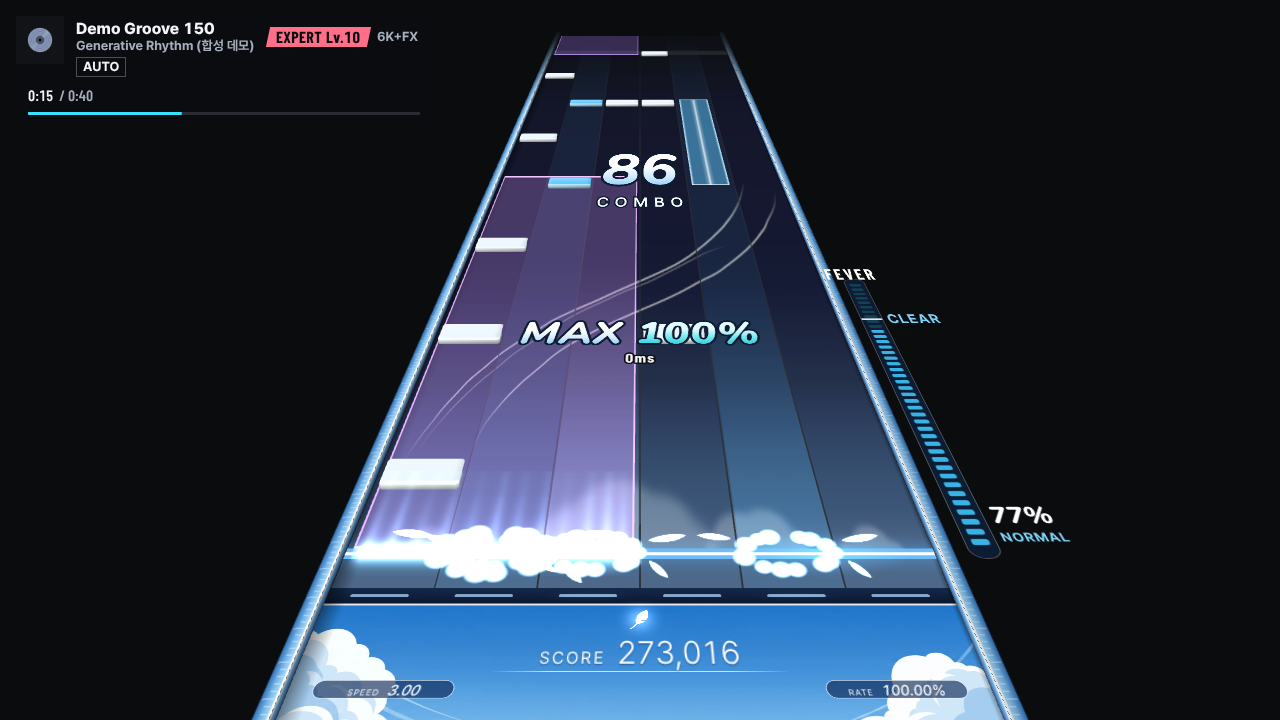
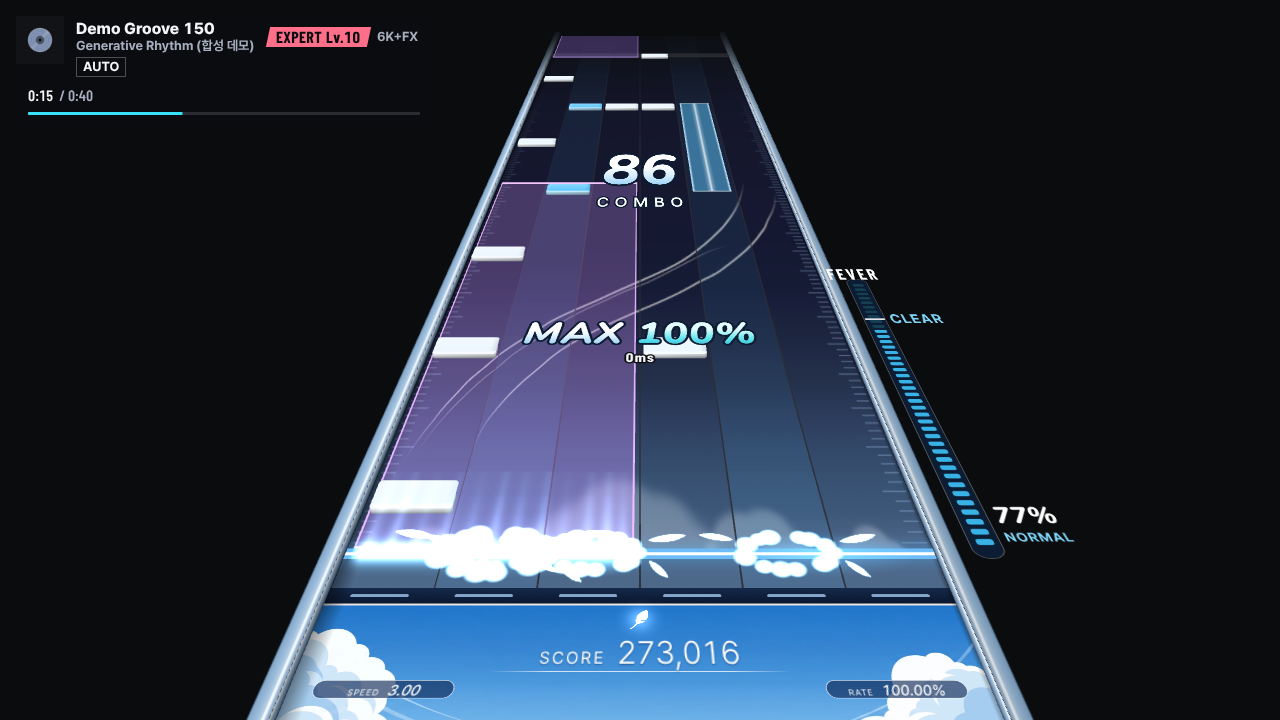
The sky skin's ticks on the lanes and its rails pale glass, as its concept has them
Set beside the concept, two things of the lanes' edges differed: the altimeter's ticks
were drawn on the rails, and the rails were a saturated blue. The concept has the ticks
on the lanes, along their two edges (one every 0.24 of a track unit, every fifth longer),
and the rails a band of pale glass with a white line: both are now as it has them. The
ticks are part of the lanes' picture, a hairline on the screen all the way and fainter
with the distance.

Claude-Session: https://claude.ai/code/session_01NJ81Brr5tCyummEicE23PB

diff --git a/client/src/render/deckArt.ts b/client/src/render/deckArt.ts
@@ -475,7 +475,9 @@ const GEM_WINDOW = 0.45;
 /**
  * The depths of SKY's deck: a thin strip of key dashes, the white line under it, the step with the
  * feather and the score written under it, the step with the speed's and the rate's pills (`pill`:
- * how far inside that step they lie).
+ * how far inside that step they lie). No deeper in all than STANDARD's: the default camera on a 16:9
+ * screen shows hardly more of the deck, and a deck that does not fit loses its readouts to the panel
+ * beside the gear (deckReadouts).
  */
 const SKY = { keys: 18, seam: 2, upper: 68, lower: 46, pad: 5, score: 36, pill: 8 } as const;
 
@@ -2443,6 +2445,8 @@ const SKY_TRACK = 40;
  * one hairline all the way).
  */
 const SKY_EYE = 14.9;
+/** The ticks along the lanes' edges: one every this many track units. */
+const SKY_TICK = 0.24;
 
 /** A smooth line through `points` (Catmull-Rom), `steps` points to each span. */
 function smoothed(points: readonly (readonly [number, number])[], steps: number): [number, number][] {
@@ -2497,8 +2501,9 @@ function strand(g: CanvasRenderingContext2D, w: number, h: number, st: number, s
  * SKY's lanes, as the skin's picture has them (r2-skin-sky-c3.jpg: the colours are read off its lanes
  * laid flat): a deep navy from the far end down to a quarter of the way from the judge line, easing
  * from there to a dim slate blue at the line (well under half the deck's brightness at its brightest),
- * a low bank of cloud at its palest standing on the line under the middle lanes, and the three wind
- * trails (SKY_STRANDS), still: nothing on it moves, and none of it is as bright as a note.
+ * a low bank of cloud at its palest standing on the line under the middle lanes, the three wind
+ * trails (SKY_STRANDS) and an altimeter's ticks along the two edges, still: nothing on it moves, and
+ * none of it is as bright as a note.
  */
 function skyFloor(g: CanvasRenderingContext2D, w: number, h: number, st: number): void {
   const sky = g.createLinearGradient(0, 0, 0, h);
@@ -2539,6 +2544,18 @@ function skyFloor(g: CanvasRenderingContext2D, w: number, h: number, st: number)
   }
   g.restore();
   for (const s of SKY_STRANDS) strand(g, w, h, st, s, Math.max(1.1, w / 440));
+  // an altimeter's ticks along the lanes' two edges, as the picture has them: one every SKY_TICK units
+  // up the track, every fifth longer; a hairline on the screen all the way (drawn deeper the further
+  // up the track, where the camera flattens it), fainter with the distance so they never close into a band
+  for (let i = 1; i * SKY_TICK < SKY_TRACK * 0.7; i++) {
+    const z = i * SKY_TICK;
+    const thick = Math.max(1, (h / SKY_TRACK) * 0.02 * (1 + z / SKY_EYE) ** 2);
+    const reach = w * (i % 5 === 1 ? 0.044 : 0.027);
+    const y = h * (1 - z / SKY_TRACK) - thick / 2;
+    g.fillStyle = `rgba(160,198,240,${(0.5 * (1 - z / (SKY_TRACK * 0.7))).toFixed(3)})`;
+    g.fillRect(w * 0.004, y, reach, thick);
+    g.fillRect(w * 0.996 - reach, y, reach, thick);
+  }
 }
 
 const GEAR_PLATES: Record<GearStyle, (g: CanvasRenderingContext2D, s: DeckSpec, art: GearArt) => void> = {
@@ -3130,21 +3147,21 @@ const GEAR_FRAMES: Record<GearStyle, (art: GearArt) => SideLook> = {
       g.fillRect(0, 0, 0.8 * k, h);
     },
   }),
-  // SKY: a slim strip of sky-tinted glass, a dark seam outside, a white hairline along the lanes, and
-  // fine tick marks along it as on an altimeter's scale, a longer one in each tile (in FEVER the glass
-  // brighter and the hairline cyan)
+  // SKY: a band of pale sky-tinted glass, a dark seam outside, a white line down it nearer the lanes
+  // and a cooler edge along them, plain all its length (the altimeter's ticks its picture has are on
+  // the lanes: skyFloor); in FEVER the glass brighter and the line cyan
   sky: () => ({
-    body: '#6fb3e6',
-    width: 14,
+    body: '#9dbddb',
+    width: 18,
     tile: 40,
     height: 14,
-    // the strip's side: the glass seen through its edge, white under its top, deep blue at its foot
+    // the band's side: the glass seen through its edge, white under its top, deep blue at its foot
     face: (g, w, h, k, lit) => {
       const side = g.createLinearGradient(0, 0, 0, h);
       side.addColorStop(0, '#ffffff');
-      side.addColorStop(0.2, lit ? '#b6e6ff' : '#93cdf4');
-      side.addColorStop(0.6, '#3d7cc0');
-      side.addColorStop(1, '#152c50');
+      side.addColorStop(0.22, lit ? '#c9ecff' : '#b4cfe6');
+      side.addColorStop(0.65, '#5f84ad');
+      side.addColorStop(1, '#1d3558');
       g.fillStyle = side;
       g.fillRect(0, 0, w, h);
       g.fillStyle = lit ? SKY_CYAN : white(0.7);
@@ -3152,23 +3169,17 @@ const GEAR_FRAMES: Record<GearStyle, (art: GearArt) => SideLook> = {
     },
     paint: (g, w, h, k, lit) => {
       const across = g.createLinearGradient(0, 0, w, 0);
-      across.addColorStop(0, '#0d2038');
-      across.addColorStop(0.1, '#3a78ba');
-      across.addColorStop(0.5, lit ? '#9bdcff' : '#74b6ea');
-      across.addColorStop(0.84, lit ? '#c8eeff' : '#a6d5f5');
-      across.addColorStop(0.9, lit ? SKY_CYAN : '#ffffff');
-      across.addColorStop(1, '#ffffff');
+      across.addColorStop(0, '#1c3350');
+      across.addColorStop(0.1, lit ? '#93c4e6' : '#86a9cb');
+      across.addColorStop(0.45, lit ? '#aad6f2' : '#9dbddb');
+      across.addColorStop(0.64, lit ? '#c4e6fa' : '#b4cfe6');
+      across.addColorStop(0.7, lit ? SKY_CYAN : '#f4f9fd');
+      across.addColorStop(0.78, lit ? SKY_CYAN : '#f4f9fd');
+      across.addColorStop(0.85, lit ? '#b6dcf5' : '#a9c4de');
+      across.addColorStop(1, '#7f97b3');
       g.fillStyle = across;
       g.fillRect(0, 0, w, h);
-      // the scale: five ticks to a tile, the middle one longer (a tile mirrors at every other: evenly on)
-      g.fillStyle = white(0.8);
-      const thick = Math.max(1, 0.7 * k);
-      for (let i = 0; i < 5; i++) {
-        const y = ((i + 0.5) * h) / 5 - thick / 2;
-        const long = i === 2;
-        g.fillRect(w * (long ? 0.16 : 0.42), y, w * (long ? 0.64 : 0.38), thick);
-      }
-      g.fillStyle = black(0.55);
+      g.fillStyle = black(0.45);
       g.fillRect(0, 0, 0.8 * k, h);
     },
   }),

diff --git a/client/src/ui/settingsHelp.ts b/client/src/ui/settingsHelp.ts
@@ -2,7 +2,7 @@
 
 /** 설정 → 기어 → 기어. */
 export const GEAR_HELP =
-  '트랙을 담는 기어입니다. 판정선 아래 받침의 꾸밈, 트랙 양옆 테두리, 게이지·점수판의 모양과 숫자 글꼴이 함께 바뀝니다. 기본은 그래파이트에 레인마다 낮은 키캡(누르면 하늘색 불)과 점수·속도·정확도 창, 앞쪽의 하늘색 불빛 띠, 크리스털은 레인마다 젖빛 크리스털 키캡(누르면 얼음빛), 넓은 면으로 깎은 옅은 빛깔의 받침에 박힌 사파이어빛 육각 판의 점수·속도·정확도, 레인을 따라 맑은 유리 테두리, 하늘은 레인마다 가는 표시선(누르면 청록빛 불), 구름 낀 하늘 받침에 깃털 아래 쓴 점수와 비치는 알약 창의 속도·정확도, 눈금이 난 하늘빛 유리 테두리, 레인에 아주 옅게 깔린 같은 하늘, 오락실 기체는 검은 플라스틱·크롬에 조이스틱·아크릴 버튼·동전 투입구, 빈티지 리시버는 월넛과 은색 앞판에 튜닝 다이얼·노브·스위치·미터, 나전칠기는 흑칠에 자개 학 뚜껑·자개 덩굴·황동 자물쇠 판, 커스텀 키보드는 차콜 알루미늄에 노브·OLED 창·황동 명판·방향키, 레이싱 휠은 카본에 시프트 라이트·로터리·고무 버튼·랩 타이머, 우주선 계기판은 회색 패널에 보호 덮개 셀렉터·토글·경고등·주의 띠와 금박 단열재 테두리, 피아노는 흑단 래커에 레인마다 상아색 흰 건반과 그 사이 검은 건반, 스크래치 아래 높은음자리표 황동 메달, 달은 깨뜨린 은빛 크리스털 유리 덩어리 한 장(곧은 결정 면 사이로 유리 속의 결이 비침)과 같은 유리의 테두리입니다. 누른 레인은 키빔과 타격 효과로 보입니다. 받침의 버튼·노브·창 같은 부품에는 박자에 맞춰 불이 들어오고, 마디마다 테두리를 따라 빛이 지나가며, 피버 때는 테두리의 불빛이 다 켜집니다. 판정선은 어느 기어에서나 같은 자리의 굵은 선(기본·크리스털·하늘 기어는 흰 심에 저마다의 푸른 선, 나머지는 붉은 선)으로 레이저처럼 조금씩 일렁이고, 받침은 그보다 조금 아래에서 시작합니다.';
+  '트랙을 담는 기어입니다. 판정선 아래 받침의 꾸밈, 트랙 양옆 테두리, 게이지·점수판의 모양과 숫자 글꼴이 함께 바뀝니다. 기본은 그래파이트에 레인마다 낮은 키캡(누르면 하늘색 불)과 점수·속도·정확도 창, 앞쪽의 하늘색 불빛 띠, 크리스털은 레인마다 젖빛 크리스털 키캡(누르면 얼음빛), 넓은 면으로 깎은 옅은 빛깔의 받침에 박힌 사파이어빛 육각 판의 점수·속도·정확도, 레인을 따라 맑은 유리 테두리, 하늘은 레인마다 가는 표시선(누르면 청록빛 불), 구름 낀 하늘 받침에 깃털 아래 쓴 점수와 비치는 알약 창의 속도·정확도, 옅은 하늘빛 유리 테두리, 레인에 아주 옅게 깔린 같은 하늘과 양 가장자리의 눈금, 오락실 기체는 검은 플라스틱·크롬에 조이스틱·아크릴 버튼·동전 투입구, 빈티지 리시버는 월넛과 은색 앞판에 튜닝 다이얼·노브·스위치·미터, 나전칠기는 흑칠에 자개 학 뚜껑·자개 덩굴·황동 자물쇠 판, 커스텀 키보드는 차콜 알루미늄에 노브·OLED 창·황동 명판·방향키, 레이싱 휠은 카본에 시프트 라이트·로터리·고무 버튼·랩 타이머, 우주선 계기판은 회색 패널에 보호 덮개 셀렉터·토글·경고등·주의 띠와 금박 단열재 테두리, 피아노는 흑단 래커에 레인마다 상아색 흰 건반과 그 사이 검은 건반, 스크래치 아래 높은음자리표 황동 메달, 달은 깨뜨린 은빛 크리스털 유리 덩어리 한 장(곧은 결정 면 사이로 유리 속의 결이 비침)과 같은 유리의 테두리입니다. 누른 레인은 키빔과 타격 효과로 보입니다. 받침의 버튼·노브·창 같은 부품에는 박자에 맞춰 불이 들어오고, 마디마다 테두리를 따라 빛이 지나가며, 피버 때는 테두리의 불빛이 다 켜집니다. 판정선은 어느 기어에서나 같은 자리의 굵은 선(기본·크리스털·하늘 기어는 흰 심에 저마다의 푸른 선, 나머지는 붉은 선)으로 레이저처럼 조금씩 일렁이고, 받침은 그보다 조금 아래에서 시작합니다.';
 
 /** 설정 → 기어 → 판정·콤보 글꼴. */
 export const HUD_TYPE_HELP =

diff --git a/client/src/render/deckArt.test.ts b/client/src/render/deckArt.test.ts
@@ -372,6 +372,31 @@ describe('the decks of the gears a player picks', () => {
     const trails = calls.filter((c) => c[0] === 'addColorStop' && typeof c[2] === 'string' && (c[2] as string).startsWith('rgba(255,255,255')).map((c) => Number((c[2] as string).slice(17, -1)));
     expect(Math.max(...trails)).toBeLessThanOrEqual(0.6);
     expect(Math.min(...trails)).toBe(0);
+    // the ticks along the two edges: drawn last, in pairs that mirror each other, evenly up the track from the
+    // judge line, every fifth longer, each inside the picture and short (under a twentieth of its width)
+    const lastClose = closes[closes.length - 1];
+    const ticks = calls.slice(lastClose).filter((c) => c[0] === 'fillRect') as [string, number, number, number, number][];
+    expect(ticks.length).toBeGreaterThan(100);
+    expect(ticks.length % 2).toBe(0);
+    const lefts = ticks.filter((_, i) => i % 2 === 0);
+    lefts.forEach(([, x, y, tw, th], i) => {
+      const [, rx, ry, rw, rh] = ticks[2 * i + 1];
+      expect([ry, rw, rh]).toEqual([y, tw, th]);
+      expect(rx + rw).toBeCloseTo(w - x, 6);
+      expect(x).toBeGreaterThanOrEqual(0);
+      expect(tw / w).toBeLessThan(0.05);
+      expect(y).toBeGreaterThan(0);
+      expect(y + th).toBeLessThanOrEqual(h);
+      if (i > 0) expect(y).toBeLessThan(lefts[i - 1][2]);
+    });
+    const long = lefts.map(([, , , tw]) => tw > lefts[1][3] * 1.3);
+    expect(long.slice(0, 11)).toEqual([true, false, false, false, false, true, false, false, false, false, true]);
+    // fainter with the distance: the nearest about half there, the farthest all but gone
+    const faint = calls.slice(lastClose).filter((c) => c[0] === '=' && c[1] === 'fillStyle').map((c) => Number((c[2] as string).slice((c[2] as string).lastIndexOf(',') + 1, -1)));
+    expect(faint[0]).toBeGreaterThan(0.4);
+    expect(faint[0]).toBeLessThanOrEqual(0.5);
+    expect(faint[faint.length - 1]).toBeLessThan(0.02);
+    expect(faint).toEqual([...faint].sort((a, b) => b - a));
   });
 
   it('lights a held cap in its gear’s manner: STANDARD’s a rounded glow, CRYSTAL’s keeping its cut, SKY’s a dash white-hot in its cell’s glow', () => {

diff --git a/client/src/ui/settingsHelp.test.ts b/client/src/ui/settingsHelp.test.ts
@@ -16,7 +16,7 @@ describe('pickedHelp', () => {
     // the crystal skin's gear (saved as 'prism'), with commas of its own
     expect(pickedHelp(GEAR_HELP, GEARS, '크리스털')?.clause).toBe('레인마다 젖빛 크리스털 키캡(누르면 얼음빛), 넓은 면으로 깎은 옅은 빛깔의 받침에 박힌 사파이어빛 육각 판의 점수·속도·정확도, 레인을 따라 맑은 유리 테두리');
     // the sky skin's gear, whose name is the start of a colour's (하늘색) in other gears' words
-    expect(pickedHelp(GEAR_HELP, GEARS, '하늘')?.clause).toBe('레인마다 가는 표시선(누르면 청록빛 불), 구름 낀 하늘 받침에 깃털 아래 쓴 점수와 비치는 알약 창의 속도·정확도, 눈금이 난 하늘빛 유리 테두리, 레인에 아주 옅게 깔린 같은 하늘');
+    expect(pickedHelp(GEAR_HELP, GEARS, '하늘')?.clause).toBe('레인마다 가는 표시선(누르면 청록빛 불), 구름 낀 하늘 받침에 깃털 아래 쓴 점수와 비치는 알약 창의 속도·정확도, 옅은 하늘빛 유리 테두리, 레인에 아주 옅게 깔린 같은 하늘과 양 가장자리의 눈금');
     // a gear in the middle of the list, with commas of its own
     expect(pickedHelp(GEAR_HELP, GEARS, '피아노')?.clause).toBe('흑단 래커에 레인마다 상아색 흰 건반과 그 사이 검은 건반, 스크래치 아래 높은음자리표 황동 메달');
     // the last gear's words close the sentence: without its ending

diff --git a/client/e2e/settings.spec.ts b/client/e2e/settings.spec.ts
@@ -87,7 +87,7 @@ test('the help names the picked gear only, and the default of a row whose value 
   // the sky skin's gear after it: its name is the start of a colour's (하늘색) in other gears' words, and only its own are shown
   await page.keyboard.press('ArrowRight');
   await expect(gear).toHaveAttribute('data-value', 'sky');
-  await expect(picked).toHaveText('하늘 레인마다 가는 표시선(누르면 청록빛 불), 구름 낀 하늘 받침에 깃털 아래 쓴 점수와 비치는 알약 창의 속도·정확도, 눈금이 난 하늘빛 유리 테두리, 레인에 아주 옅게 깔린 같은 하늘');
+  await expect(picked).toHaveText('하늘 레인마다 가는 표시선(누르면 청록빛 불), 구름 낀 하늘 받침에 깃털 아래 쓴 점수와 비치는 알약 창의 속도·정확도, 옅은 하늘빛 유리 테두리, 레인에 아주 옅게 깔린 같은 하늘과 양 가장자리의 눈금');
   await expect(help).not.toContainText('그래파이트');
   await page.keyboard.press('ArrowRight');
   await expect(gear).toHaveAttribute('data-value', 'cabinet');

diff --git a/docs/GEAR_NOTE_FX.md b/docs/GEAR_NOTE_FX.md
@@ -50,10 +50,10 @@ PRISM 1차 구현에서 바뀐 것: 기어(검은 아노다이징 알루미늄·
 | 부분 | 내용 |
 |---|---|
 | 기어 | 폭은 트랙 폭 그대로. 판정선 아래 가는 남색 띠에 레인마다 짧은 표시선 하나(누른 레인의 것이 청록으로 켜짐), 흰 실선 아래로 받침 전체가 하늘: 위는 깊은 파랑, 플레이어 쪽으로 옅어지고, 양끝에 뭉게구름, 가운데(점수 자리)는 비워 두고 가는 흰 바람 줄 몇 가닥. 금속·유리 광택 없이 평평한 그림. **이 하늘과 구름은 Gemini로 뽑은 그림 한 장**(`client/public/media/gears/sky/plate.webp`)을 깔고, 그 위의 표시선·깃털·수치 자리는 코드로 그립니다. 그림을 읽지 못하면 같은 하늘을 코드의 단순한 모양으로 그립니다 |
-| 레일 | 하늘빛 유리의 가는 띠에 고도계 같은 눈금 |
+| 레일 | 옅은 하늘빛 유리 띠, 레인 쪽에 흰 줄 하나(시안의 고도계 눈금은 레일이 아니라 레인 가장자리에 있어 레인 그림에 넣음) |
 | 수치 | SCORE는 창 없이 하늘 위에 가는 흰 글씨로(위에 깃털, 아래에 실선 하나), SPEED·RATE는 양끝의 비치는 남색 알약 창에 기울인 흰 글씨로 |
 | 판정선 | 흰 심에 하늘빛 테(자리와 굵기는 모든 기어 공통) |
-| 레인 | **이 스킨부터 레인에 받침의 그림을 아주 옅게 깝니다**(사용자 허용: "c3 정도"). 먼 쪽 3/4은 깊은 남색, 판정선 쪽으로 어둑한 청회색, 판정선에 닿은 아주 옅은 구름, 그리고 흰 바람 줄 세 가닥. 색은 시안의 레인에서 읽은 값 그대로이고, 세 가닥은 시안 화면에서 줄마다 좌표를 읽어 게임의 실제 원근(레인에 격자를 그려 잰 값)으로 옮긴 것이라 화면에서 시안과 같은 자리를 지납니다. 움직이지 않고, 어느 노트보다도 어둡습니다 |
+| 레인 | **이 스킨부터 레인에 받침의 그림을 아주 옅게 깝니다**(사용자 허용: "c3 정도"). 먼 쪽 3/4은 깊은 남색, 판정선 쪽으로 어둑한 청회색, 판정선에 닿은 아주 옅은 구름, 흰 바람 줄 세 가닥, 양 가장자리의 고도계 눈금(다섯째마다 긴 눈금, 멀수록 옅게). 색은 시안의 레인에서 읽은 값 그대로이고, 세 가닥은 시안 화면에서 줄마다 좌표를 읽어 게임의 실제 원근(레인에 격자를 그려 잰 값)으로 옮긴 것이라 화면에서 시안과 같은 자리를 지납니다. 움직이지 않고, 어느 노트보다도 어둡습니다 |
 | 단노트 | 모서리가 둥근 무광 막대(반사·테 없음), 판정선에 닿는 변만 부드럽게 밝음. 스크래치는 같은 막대에 흰 날개 한 쌍 |
 | 롱노트 | 시작과 끝에 단노트 없음. 레인 색의 비치는 띠에 가운데 부드러운 흰 줄, 양끝은 띠 그대로 직각에 가는 흰 변. 누르는 동안 띠가 진해지고 가운데 줄이 빛납니다. 비치는 띠라 옆면(두께)을 그리지 않고 바닥에 평평하게 놓습니다(`LongPaint.flat`) |
 | 타격 효과 | "구름 깃털": 판정선에 놓인 구름 고리(레인 한 칸 너비, 가운데가 비어 있음)가 조금 퍼지며 사라지고 작은 깃털 셋이 돌며 흩어집니다. 판정선 위로는 고리 높이까지만 |
